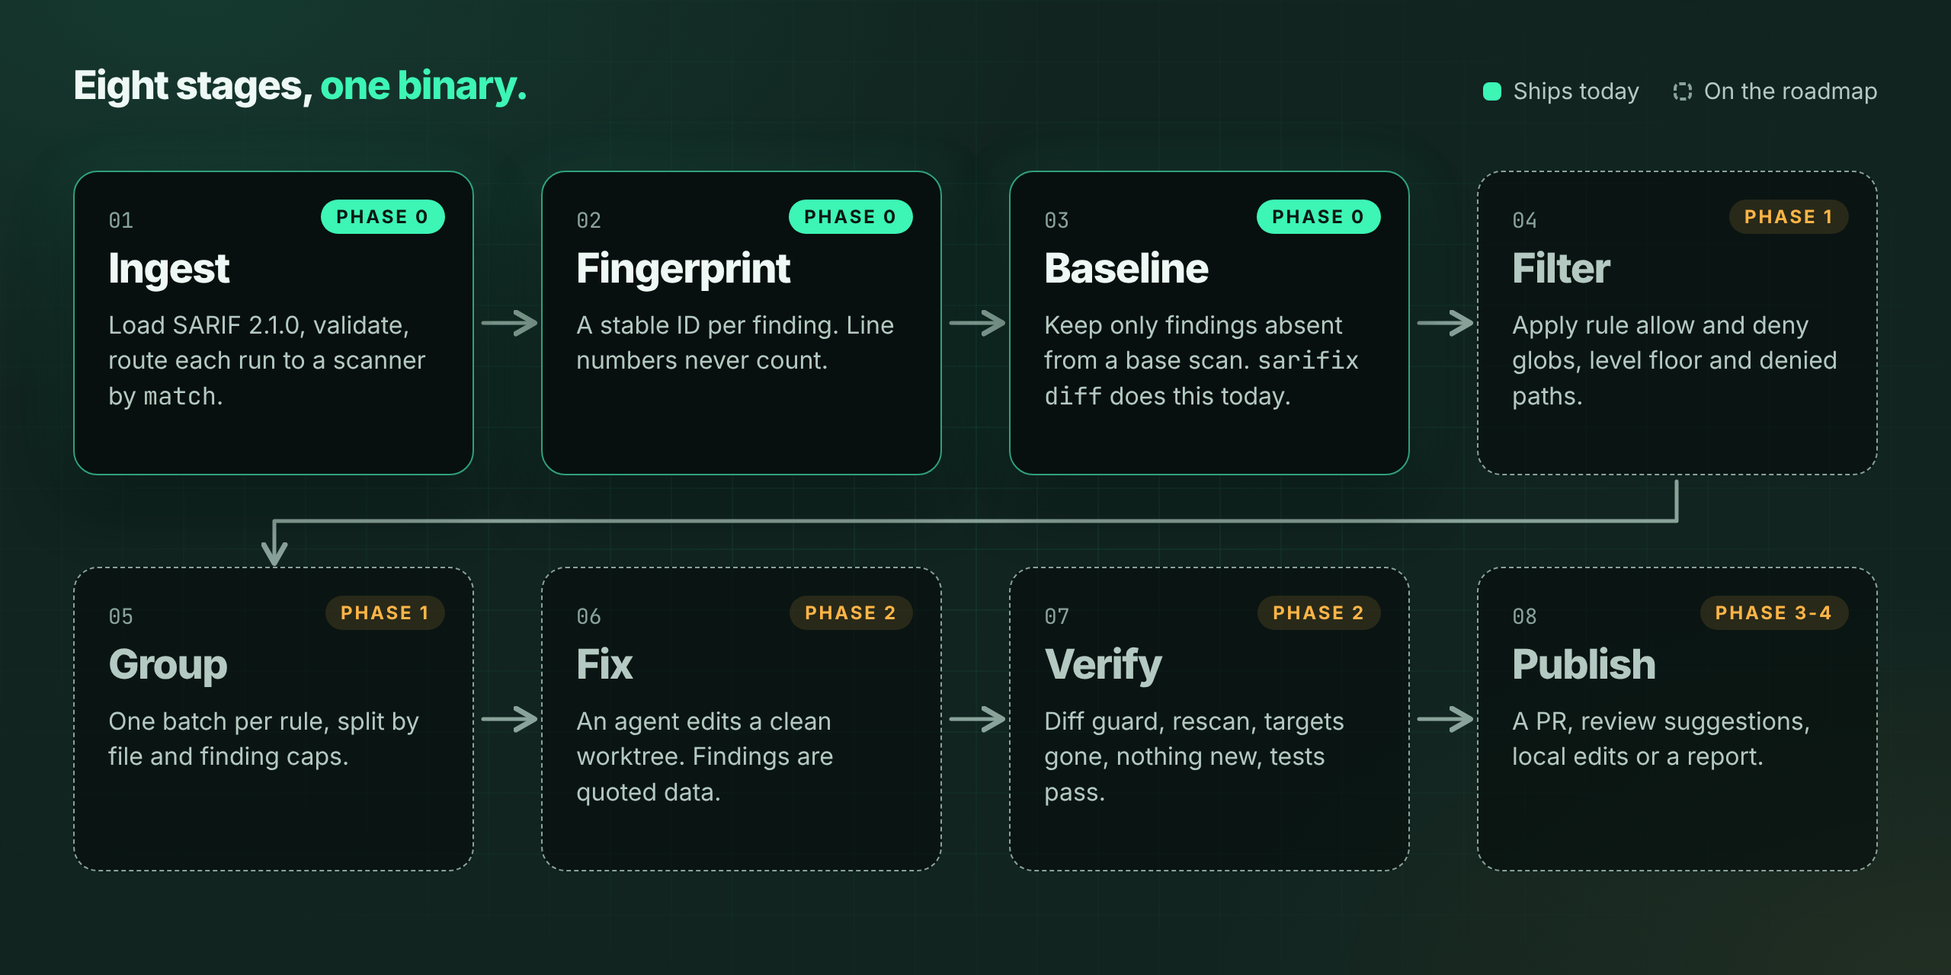
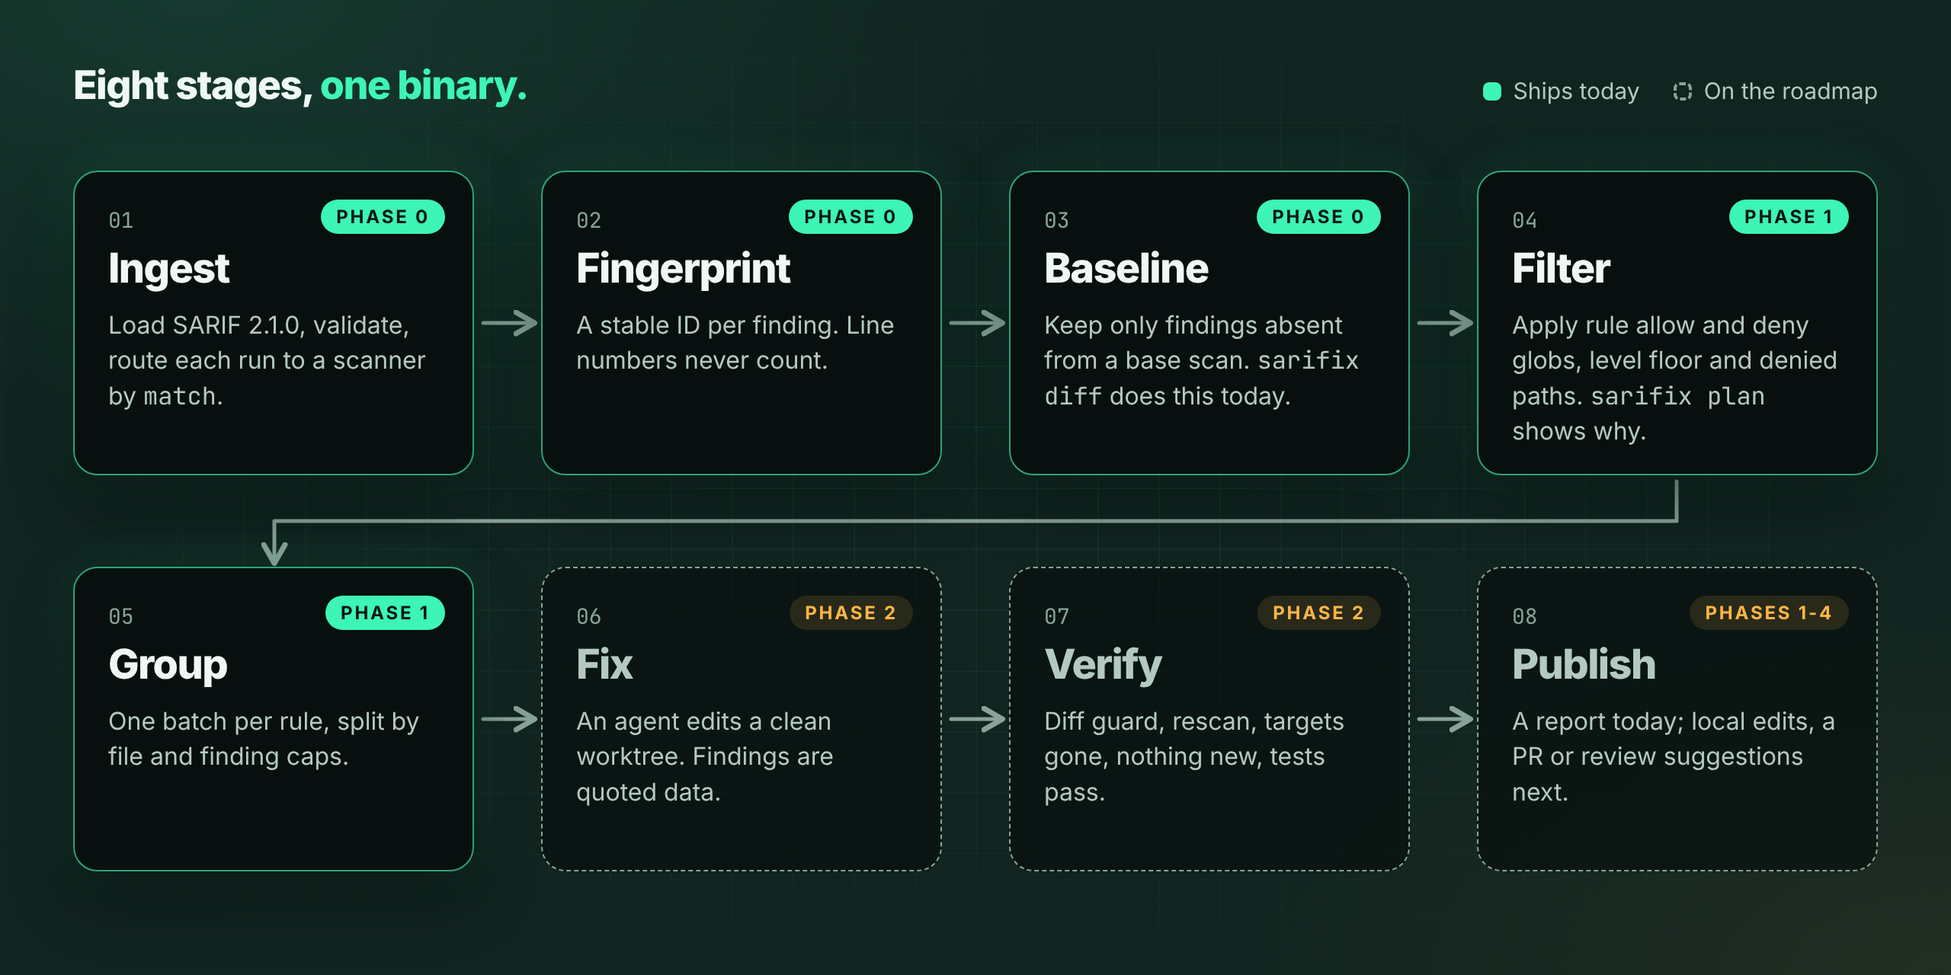
docs: phase 1 guides, reference and roadmap
Document plan and report mode, the skip reasons and ADR 0005, regenerate
the command reference, mark phase 1 done, and fuzz group.Slug in CI.

Claude-Session: https://claude.ai/code/session_011sBQUUZZEdfRKFK4ZyKVsh

diff --git a/docs/assets/src/how-it-works.html b/docs/assets/src/how-it-works.html
@@ -51,13 +51,13 @@
     <div class="card ship"><span class="chip">Phase 0</span><div class="n">01</div><h3>Ingest</h3><p>Load SARIF 2.1.0, validate, route each run to a scanner by <span class="mono">match</span>.</p></div>
     <div class="card ship"><span class="chip">Phase 0</span><div class="n">02</div><h3>Fingerprint</h3><p>A stable ID per finding. Line numbers never count.</p></div>
     <div class="card ship"><span class="chip">Phase 0</span><div class="n">03</div><h3>Baseline</h3><p>Keep only findings absent from a base scan. <span class="mono">sarifix diff</span> does this today.</p></div>
-    <div class="card plan"><span class="chip">Phase 1</span><div class="n">04</div><h3>Filter</h3><p>Apply rule allow and deny globs, level floor and denied paths.</p></div>
+    <div class="card ship"><span class="chip">Phase 1</span><div class="n">04</div><h3>Filter</h3><p>Apply rule allow and deny globs, level floor and denied paths. <span class="mono">sarifix plan</span> shows why.</p></div>
   </div>
   <div class="row r2">
-    <div class="card plan"><span class="chip">Phase 1</span><div class="n">05</div><h3>Group</h3><p>One batch per rule, split by file and finding caps.</p></div>
+    <div class="card ship"><span class="chip">Phase 1</span><div class="n">05</div><h3>Group</h3><p>One batch per rule, split by file and finding caps.</p></div>
     <div class="card plan"><span class="chip">Phase 2</span><div class="n">06</div><h3>Fix</h3><p>An agent edits a clean worktree. Findings are quoted data.</p></div>
     <div class="card plan"><span class="chip">Phase 2</span><div class="n">07</div><h3>Verify</h3><p>Diff guard, rescan, targets gone, nothing new, tests pass.</p></div>
-    <div class="card plan"><span class="chip">Phase 3-4</span><div class="n">08</div><h3>Publish</h3><p>A PR, review suggestions, local edits or a report.</p></div>
+    <div class="card plan"><span class="chip">Phases 1-4</span><div class="n">08</div><h3>Publish</h3><p>A report today; local edits, a PR or review suggestions next.</p></div>
   </div>
 </div>
 </body></html>

diff --git a/overrides/home.html b/overrides/home.html
@@ -49,7 +49,7 @@
       <li><b>4</b><span>SARIF producers verified, one hand-written</span></li>
       <li><b>26 of 28</b><span>findings still matched after the lines shifted</span></li>
       <li><b>28</b><span>load-time checks on sarifix.yaml</span></li>
-      <li><b>4 of 8</b><span>commands shipped, the rest on the roadmap</span></li>
+      <li><b>6 of 8</b><span>commands shipped, the rest on the roadmap</span></li>
     </ul>
   </section>
 
@@ -168,9 +168,9 @@ line numbers never count</code></pre>
     <div class="lp-wrap">
       <p class="lp-eyebrow">How it works</p>
       <h2>One pipeline.<br><span>Three stages ship today.</span></h2>
-      <p class="lp-lede lp-lede--center">Phase 0 covers ingest, fingerprinting and the baseline diff. Filtering, grouping, the agent, verification and publishing follow in phases 1 to 4.</p>
+      <p class="lp-lede lp-lede--center">Phases 0 and 1 cover ingest, fingerprinting, the baseline diff, filtering, grouping and the report. The agent, verification and the other publish modes follow in phases 2 to 4.</p>
       <figure class="lp-figure">
-        <a href="{{ 'assets/how-it-works.png' | url }}"><img width="2560" height="1280" src="{{ 'assets/how-it-works.png' | url }}" alt="The sarifix pipeline in eight stages: ingest, fingerprint and baseline ship today in phase 0; filter and group are phase 1; fix and verify are phase 2; publish is phases 3 and 4." loading="lazy"></a>
+        <a href="{{ 'assets/how-it-works.png' | url }}"><img width="2560" height="1280" src="{{ 'assets/how-it-works.png' | url }}" alt="The sarifix pipeline in eight stages: ingest, fingerprint and baseline shipped in phase 0; filter and group shipped in phase 1; fix and verify are phase 2; publish ships report mode today and the other modes in phases 2 to 4." loading="lazy"></a>
         <figcaption>Tap to open the full-size diagram</figcaption>
       </figure>
     </div>

diff --git a/docs/getting-started.md b/docs/getting-started.md
@@ -3,7 +3,7 @@
 Install sarifix, write a first config, scan a repo, and compare two scans. Everything on this page runs today.
 
 !!! note "What exists today"
-    sarifix is at phase 0. The commands `scan`, `diff`, `config validate` and `version` work. The commands that fix findings (`fix`, `plan`, `doctor`, `stats`) and the four modes are planned; see the [roadmap](roadmap.md).
+    sarifix is at phase 1. The commands `scan`, `diff`, `plan`, `config validate` and `version` work, and so does `fix --mode report`. Fixing code (`fix` in the `local`, `pr` and `review` modes), `doctor` and `stats` are planned; see the [roadmap](roadmap.md).
 
 ## Install
 
@@ -100,6 +100,43 @@ Twenty-six findings moved but are still recognized as the same finding. The two 
 
 `--repo` is the checkout of the head commit and `--base-root` the checkout of the base commit. sarifix reads source lines from them when the SARIF has no snippet. Add `--unchanged` to list the unchanged findings too, or `--json` for machine output.
 
+## Plan a fix run
+
+`sarifix plan` applies your rules and shows the batches a fix run would attempt, without calling an agent. With the [example config](https://github.com/rossedman/sarifix/blob/main/examples/sarifix.yaml) on the fixture repo:
+
+```console
+$ sarifix plan --sarif 'sarif/*.sarif'
+28 findings  5 batched in 5 batches  4 deferred  19 skipped
+
+Batches
+  1. checkov/CKV_AWS_144    error   1 finding in 1 file → sarifix/checkov/ckv_aws_144
+     main.tf
+  2. checkov/CKV_AWS_145    error   1 finding in 1 file → sarifix/checkov/ckv_aws_145
+     main.tf
+  3. checkov/CKV_AWS_18     error   1 finding in 1 file → sarifix/checkov/ckv_aws_18
+     main.tf
+  4. checkov/CKV_AWS_21     error   1 finding in 1 file → sarifix/checkov/ckv_aws_21
+     main.tf
+  5. checkov/CKV_AWS_23     error   1 finding in 1 file → sarifix/checkov/ckv_aws_23
+     main.tf
+
+Deferred (over limits.batches_per_run)
+  1. checkov/CKV_AWS_24     error   1 finding in 1 file → sarifix/checkov/ckv_aws_24
+     main.tf
+  2. golangci-lint/errcheck error   1 finding in 1 file → sarifix/golangci-lint/errcheck
+     main.go
+  3. trivy/DS-0002          error   1 finding in 1 file → sarifix/trivy/ds-0002
+     Dockerfile
+  4. base-image-2026q4      warning 1 finding in 1 file → sarifix/campaign/base-image-2026q4
+     Dockerfile
+
+Skipped
+  below_min_level  5
+  rule_not_allowed 14
+```
+
+Batches hold one rule (or one campaign) each, ordered by severity and then size, and `limits.batches_per_run` caps how many a run attempts. Add `--details` to list every finding and why each skipped one was skipped, `--rule` or `--campaign` to narrow the run, and `--baseline` to keep only findings that are new since another scan. [Modes](guides/modes.md#skip-reasons) lists the skip reasons. `sarifix fix --mode report` writes the same plan out as enriched SARIF and a JSON summary.
+
 ## Exit codes
 
 | Code | Meaning |
@@ -107,7 +144,7 @@ Twenty-six findings moved but are still recognized as the same finding. The two 
 | 0 | Success, including nothing to do |
 | 1 | Runtime error |
 | 2 | Config error |
-| 3 | Some batches failed verification (used by the planned fixing commands) |
+| 3 | Some batches failed verification (used once fixing lands in phase 2) |
 
 ## Next steps
 

diff --git a/docs/guides/modes.md b/docs/guides/modes.md
@@ -2,8 +2,8 @@
 
 sarifix has four modes. They run the same pipeline and differ only in what triggers them, which findings they look at, and where the result goes.
 
-!!! warning "Planned, not shipped"
-    The four modes arrive in phases 1 to 4 of the [roadmap](../roadmap.md). Nothing on this page can be run yet. It describes the design so you can see where the project is heading. What does run today is `scan`, `diff` and `config validate`; see [Getting started](../getting-started.md).
+!!! warning "Only report mode is shipped"
+    `report` works today. `local`, `pr` and `review` arrive in phases 2 to 4 of the [roadmap](../roadmap.md); asking for one now exits with an error naming its phase. Their sections describe the design so you can see where the project is heading.
 
 | Mode | Trigger | Publishes | Typical use | Phase |
 | --- | --- | --- | --- | --- |
@@ -14,7 +14,49 @@ sarifix has four modes. They run the same pipeline and differ only in what trigg
 
 ## report
 
-Writes no code. It runs ingest, fingerprint and filter, then writes the SARIF back out with a `properties.sarifix` block on each result recording its status and the reason it was or was not selected, plus a JSON summary. Use it to see what sarifix would do before you let it do anything, and to feed dashboards. `sarifix plan` shows the same batches without writing files.
+Writes no code. It runs ingest, fingerprint, filter and group, then writes two files to `--out-dir` (default `sarifix-report/`):
+
+- `sarifix.sarif`: every input run, unchanged except that each finding gets a `properties.sarifix` block with its status (`batched`, `deferred` or `skipped`), the skip reason, its batch and the branch a fix would use. It validates against the SARIF 2.1.0 schema, so code scanning and other SARIF viewers still read it.
+- `summary.json`: counts by status and skip reason, and the batches in the order a run would attempt them.
+
+```console
+$ sarifix fix --mode report --sarif 'sarif/*.sarif'
+...
+✓ sarifix-report/sarifix.sarif
+✓ sarifix-report/summary.json
+```
+
+A deferred finding from that run carries:
+
+```json
+"properties": {
+  "sarifix": {
+    "status": "deferred",
+    "scanner": "checkov",
+    "ruleKey": "checkov/CKV_AWS_24",
+    "batch": "checkov/CKV_AWS_24",
+    "branch": "sarifix/checkov/ckv_aws_24",
+    "fingerprint": "fcadca11a498b6d6f0a7012e1e3081fc:1"
+  }
+}
+```
+
+Use it to see what sarifix would do before you let it do anything, and to feed dashboards. [`sarifix plan`](../reference/commands/sarifix_plan.md) shows the same batches without writing files.
+
+### Skip reasons
+
+Checks run in this order, and a finding gets the first reason that applies:
+
+| Reason | Meaning |
+| --- | --- |
+| `unrouted` | No scanner's `match` covers the SARIF tool name. Kept in the report, never fixable. |
+| `no_location` | No file location inside the repo. |
+| `in_baseline` | Also in the `--baseline` scan, so not new. |
+| `below_min_level` | Level is under `rules.min_level`. |
+| `rule_denied` | Matches `rules.deny`. |
+| `rule_not_allowed` | Not in `rules.allow` and not in a campaign. |
+| `path_denied` | The file matches `paths.deny` (which always includes `.github/workflows/**`). |
+| `not_selected` | Excluded by `--rule` or `--campaign`. |
 
 ## local
 

diff --git a/docs/adr/0005-policy-and-batching.md b/docs/adr/0005-policy-and-batching.md
@@ -1,0 +1,20 @@
+# 5. Policy and batching details
+
+- Status: accepted
+- Date: 2026-10-23
+
+## Context
+
+Phase 1 adds filtering, grouping, `sarifix plan` and `--mode report`. The spec fixes the overall shape (batch key = `scanner/ruleId` or campaign ID, order by severity then count, cap at `batches_per_run`) but leaves several details open.
+
+## Decision
+
+- **Package layout.** `pkg/policy` filters and `pkg/group` batches, as the spec lays out. A small `pkg/plan` runs both and records a status per finding, so `plan` and `fix` share one code path. The report writer lives in `pkg/publish`, next to the mode handlers still to come.
+- **Every skip has a reason.** Checks run in a fixed order (`unrouted`, `no_location`, `in_baseline`, `below_min_level`, `rule_denied`, `rule_not_allowed`, `path_denied`, `not_selected`), and a finding gets the first reason that applies. Unrouted findings stay in the report, as the spec asks, but are never fixable.
+- **Campaign rules count as allowed.** A finding matching a campaign's rules needs no separate `rules.allow` entry; the spec's example config relies on this. `rules.deny`, `min_level` and `paths.deny` still apply.
+- **The baseline is a multiset.** One old finding hides one new copy, not every identical finding, matching `sarifix diff`.
+- **Splitting keeps files whole.** A group is sorted by path and line, then cut so no part exceeds `files_per_batch` or `findings_per_batch`. A file moves between parts as a unit unless it alone has more than `findings_per_batch` findings. Parts are numbered `#2`, `#3`, and their branches get `-2`, `-3`.
+- **Ordering is per group.** Groups are ranked by their most severe finding, then by total findings, then by key; a group's parts stay together and in order. Ranking each part on its own size would put `#3` before `#2`.
+- **Branch names are deterministic.** `<prefix>/<scanner>/<rule-slug>` for rules and `<prefix>/campaign/<id>` for campaigns (a campaign spans several rules). The slug is the lower-cased ID with unsafe runs replaced by `-`. When that changes more than case, truncates, comes out empty or ends in `.lock`, a 6-hex hash of the original ID is appended, so `go/sql-injection` and `go-sql-injection` don't share a branch. IDs that differ only in case do share one.
+- **CLI shape.** `fix` exists now with only `--mode report`. The other modes exit 1 with the phase that brings them, so scripts written today keep working when they land. `plan` takes the same selection flags as `fix` (`--rule`, `--campaign`, `--baseline`), since it previews a fix run.
+- **Report files.** `--out-dir` (default `sarifix-report/`) receives `sarifix.sarif` (every input run, patched with `properties.sarifix` on each finding) and `summary.json`. Results that aren't findings (`kind` other than `fail`) are left untouched.

diff --git a/docs/reference/commands/sarifix_fix.md b/docs/reference/commands/sarifix_fix.md
@@ -1,0 +1,59 @@
+---
+title: sarifix fix
+---
+
+<!-- Generated by tools/gendocs. Do not edit. -->
+
+## sarifix fix
+
+Run the fix pipeline (report mode today)
+
+### Synopsis
+
+Run the full pipeline: ingest SARIF, filter, group, fix, verify, publish.
+
+Modes:
+  report  write enriched SARIF (properties.sarifix on every finding, with
+          its status, reason and batch) and a JSON summary; no edits
+  local   leave verified fixes in the working tree (phase 2, planned)
+  pr      open one PR per batch (phase 3, planned)
+  review  post suggested changes on a PR (phase 4, planned)
+
+```
+sarifix fix [flags]
+```
+
+### Examples
+
+```
+  sarifix fix --mode report --sarif 'sarif/*.sarif'
+  sarifix fix --mode report --sarif 'sarif/*.sarif' --out-dir out/ --json
+```
+
+### Options
+
+```
+      --baseline strings   SARIF of the base scan; findings also in it are skipped
+      --campaign string    only findings in this campaign
+  -h, --help               help for fix
+      --mode string        report, local, pr or review (default "report")
+      --out-dir string     report mode: directory for sarifix.sarif and summary.json, relative to --repo (default "sarifix-report")
+      --rule strings       only rule keys matching these globs, like trivy/DS-*
+      --sarif strings      SARIF files or globs to read (required)
+```
+
+### Options inherited from parent commands
+
+```
+      --config string       path to sarifix.yaml (default "sarifix.yaml")
+      --json                machine-readable JSON output
+      --log-level string    log level: debug, info, warn, error (default "info")
+      --org-config string   org default config layered under --config
+      --repo string         repository root (default ".")
+      --settings string     settings file (default: search XDG config and home)
+```
+
+### SEE ALSO
+
+* [sarifix](sarifix.md)	 - Turn any SARIF scanner into a verified auto-fixer
+

diff --git a/docs/reference/commands/sarifix_plan.md b/docs/reference/commands/sarifix_plan.md
@@ -1,0 +1,58 @@
+---
+title: sarifix plan
+---
+
+<!-- Generated by tools/gendocs. Do not edit. -->
+
+## sarifix plan
+
+Show the batches a fix run would attempt, and why findings are skipped
+
+### Synopsis
+
+Read SARIF, apply sarifix.yaml's rules, and print the batches a fix run would
+attempt, in order, plus a count of skipped findings by reason. No agent is
+called and nothing is written.
+
+Batches group findings by <scanner>/<ruleId> (or campaign), split to respect
+limits.files_per_batch and limits.findings_per_batch, ordered by severity
+then size. Batches over limits.batches_per_run are listed as deferred.
+
+```
+sarifix plan [flags]
+```
+
+### Examples
+
+```
+  sarifix plan --sarif 'sarif/*.sarif'
+  sarifix plan --sarif 'sarif/*.sarif' --rule 'checkov/*' --details
+  sarifix plan --sarif pr.sarif --baseline base.sarif --json
+```
+
+### Options
+
+```
+      --baseline strings   SARIF of the base scan; findings also in it are skipped
+      --campaign string    only findings in this campaign
+      --details            list every finding under its batch, and every skipped finding
+  -h, --help               help for plan
+      --rule strings       only rule keys matching these globs, like trivy/DS-*
+      --sarif strings      SARIF files or globs to read (required)
+```
+
+### Options inherited from parent commands
+
+```
+      --config string       path to sarifix.yaml (default "sarifix.yaml")
+      --json                machine-readable JSON output
+      --log-level string    log level: debug, info, warn, error (default "info")
+      --org-config string   org default config layered under --config
+      --repo string         repository root (default ".")
+      --settings string     settings file (default: search XDG config and home)
+```
+
+### SEE ALSO
+
+* [sarifix](sarifix.md)	 - Turn any SARIF scanner into a verified auto-fixer
+

diff --git a/docs/security.md b/docs/security.md
@@ -9,7 +9,7 @@ How sarifix treats untrusted input, what it will never touch, and how to report 
 sarifix reads SARIF written by other tools and, once the fixing phases land, hands findings to an AI agent that edits your code. Both are attack surface, so the design assumes that everything it reads (SARIF messages, rule help text, repository files) can be hostile.
 
 !!! note "What is enforced today"
-    Phase 0 does not run an agent or change files. Today the model means: SARIF is validated against the 2.1.0 schema and invalid runs are skipped with a warning, scanner commands run as argv without a shell, and unknown placeholders are rejected at load. The agent controls in the table below are the design for phases 2 to 5.
+    sarifix does not yet run an agent or change files (that starts in phase 2). Today the model means: SARIF is validated against the 2.1.0 schema and invalid runs are skipped with a warning, scanner commands run as argv without a shell, and unknown placeholders are rejected at load. The agent controls in the table below are the design for phases 2 to 5.
 
 ### The agent's boundaries
 

diff --git a/README.md b/README.md
@@ -11,7 +11,7 @@
 
 sarifix turns any SARIF-emitting scanner into an automated fixer. It reads SARIF findings, has an AI agent fix them in small single-rule batches, proves each fix by re-running the scanner and your tests, and publishes the result as a PR, review suggestions or local edits. Trivy, Checkov, golangci-lint and your in-house tools plug in through config, with no code changes.
 
-> **Status: Phase 0 (foundation).** Loading, validating, normalizing and fingerprinting SARIF works today, as do `config validate`, `scan` and `diff`. The fixing pipeline (`fix`, `plan`, `doctor`, `stats` and the pr, review, local and report modes) lands in phases 1 to 5. See the [roadmap](https://rossedman.io/sarifix/roadmap/).
+> **Status: Phase 1 (report and plan).** Loading, validating, normalizing and fingerprinting SARIF works today, as do `config validate`, `scan`, `diff`, `plan` and `fix --mode report`. Fixing code (the local, pr and review modes), `doctor` and `stats` land in phases 2 to 5. See the [roadmap](https://rossedman.io/sarifix/roadmap/).
 
 ## Install
 

diff --git a/CONTRIBUTING.md b/CONTRIBUTING.md
@@ -53,6 +53,9 @@ These need a benchmark, and a fuzz target where they take external input.
 | `placeholder.ExpandArgs`, `Expand` | Builds scanner argv from config | `BenchmarkExpandArgs` | `FuzzExpand` |
 | `glob.MatchPath`, `glob.MatchKey` | Policy checks for every finding and changed file | `BenchmarkMatchPath`, `BenchmarkMatchKey` | `FuzzMatchPath` |
 | `ui.Sanitize` | Makes untrusted text safe for terminals | `BenchmarkSanitize` | `FuzzSanitize` |
+| `policy.Policy.Apply` | Judges every finding against the rules | `BenchmarkApply` | n/a (inputs are already-parsed findings) |
+| `group.Batches`, `group.Slug` | Batches every fixable finding; slugs become branch names | `BenchmarkBatches` | `FuzzSlug` |
+| `plan.Build` | Runs policy and grouping for a whole scan | `BenchmarkBuild` | n/a (no external input) |
 
 Compare benchmark runs with [benchstat](https://pkg.go.dev/golang.org/x/perf/cmd/benchstat): `make bench` saves results under `bench/`.
 

diff --git a/docs/roadmap.md b/docs/roadmap.md
@@ -3,12 +3,12 @@
 sarifix is built in six phases. Each ends with a working, released binary and has to meet its done criteria before the next one starts.
 
 !!! success "Where we are"
-    Phase 0 is the current work: `config validate`, `scan`, `diff` and `version` run today. Everything after it is planned, and its commands do not exist yet.
+    Phases 0 and 1 are built: `config validate`, `scan`, `diff`, `plan`, `fix --mode report` and `version` run today. Everything after them is planned, and those commands and modes do not exist yet.
 
 | Phase | Name | Status |
 | --- | --- | --- |
-| 0 | Foundation | In progress |
-| 1 | Report and plan | Planned |
+| 0 | Foundation | Done |
+| 1 | Report and plan | Done |
 | 2 | Local fixing | Planned |
 | 3 | PR mode and the GitHub Action | Planned |
 | 4 | Review mode and agent hook | Planned |

diff --git a/docs/reference/commands/sarifix.md b/docs/reference/commands/sarifix.md
@@ -34,6 +34,8 @@ Settings precedence: flag > SARIFIX_* environment variable > settings file
 
 * [sarifix config](sarifix_config.md)	 - Inspect and validate sarifix.yaml
 * [sarifix diff](sarifix_diff.md)	 - Print new, fixed and unchanged findings by fingerprint
+* [sarifix fix](sarifix_fix.md)	 - Run the fix pipeline (report mode today)
+* [sarifix plan](sarifix_plan.md)	 - Show the batches a fix run would attempt, and why findings are skipped
 * [sarifix scan](sarifix_scan.md)	 - Run configured scanners and write SARIF
 * [sarifix version](sarifix_version.md)	 - Print version, commit and build date
 
